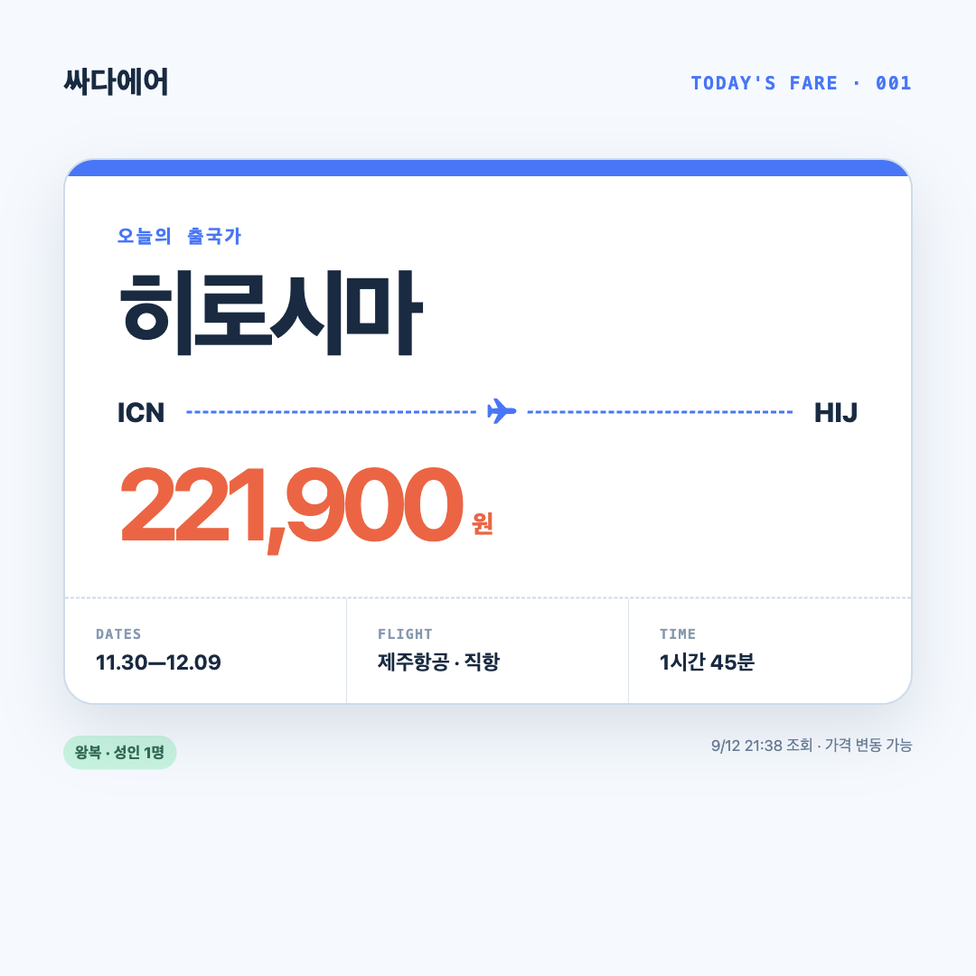
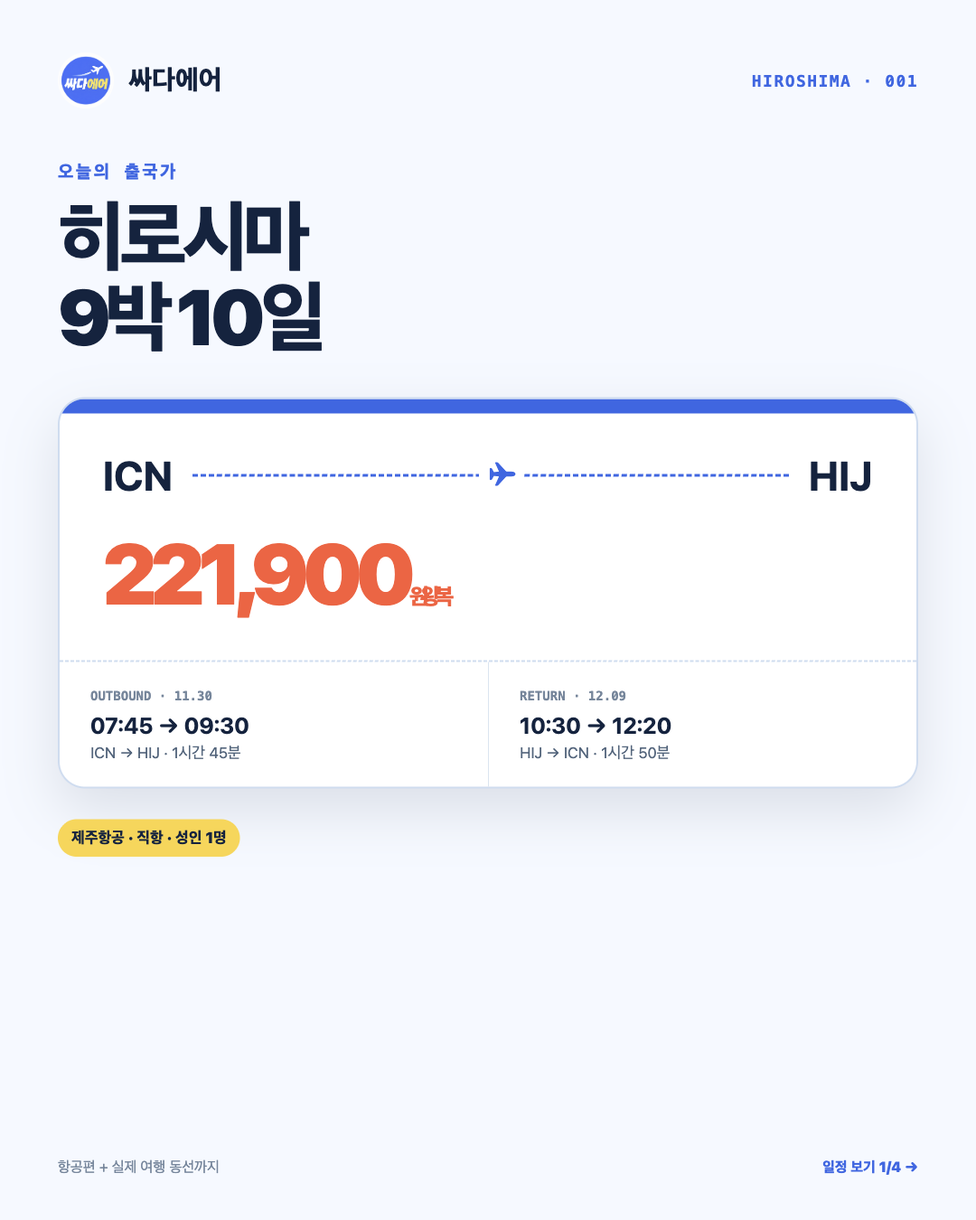
Add flight times and 9-night Hiroshima itinerary carousel

diff --git a/index.html b/index.html
@@ -1,4 +1,1 @@
-<!doctype html>
-<html lang="ko"><head><meta charset="utf-8"><meta name="viewport" content="width=device-width,initial-scale=1"><meta name="description" content="인천 출발 해외 항공권 중 지금 실제로 가기 좋은 특가를 골라 알려드립니다."><meta property="og:title" content="싸다에어 — 오늘의 출국가"><meta property="og:description" content="오늘의 픽: 히로시마 왕복 221,900원"><meta property="og:image" content="https://hydena03.github.io/ssada-air/assets/first-post.png"><title>싸다에어 — 오늘의 출국가</title>
-<style>:root{--cloud:#f4faff;--navy:#102a43;--blue:#1677ff;--coral:#ff5a36;--mint:#bdf4de;--white:#fff;--line:#c9dbea}*{box-sizing:border-box}html{scroll-behavior:smooth}body{margin:0;background:var(--cloud);color:var(--navy);font-family:-apple-system,BlinkMacSystemFont,"Apple SD Gothic Neo","Noto Sans KR",sans-serif}a{color:inherit}.wrap{width:min(960px,calc(100% - 32px));margin:auto}.top{display:flex;align-items:center;justify-content:space-between;padding:22px 0}.brand{display:flex;align-items:center;gap:10px;font-weight:900;letter-spacing:-.04em}.mark{display:block;width:42px;height:42px;border-radius:50%;overflow:hidden}.mark img{display:block;width:100%;height:100%;object-fit:cover}.stamp{font:700 12px ui-monospace,SFMono-Regular,Menlo,monospace;letter-spacing:.08em;color:#486581}.hero{padding:56px 0 88px}.eyebrow{font:800 13px ui-monospace,SFMono-Regular,Menlo,monospace;letter-spacing:.1em;color:var(--blue);text-transform:uppercase}.hero h1{max-width:760px;margin:14px 0 18px;font-size:clamp(44px,8vw,88px);line-height:.94;letter-spacing:-.075em}.hero p{max-width:600px;margin:0;font-size:clamp(17px,2vw,21px);line-height:1.65;color:#486581}.ticket{position:relative;display:grid;grid-template-columns:1fr 230px;margin-top:44px;background:var(--white);border:1px solid var(--line);border-radius:24px;overflow:hidden;box-shadow:0 24px 70px rgba(16,42,67,.12)}.ticket:before,.ticket:after{content:"";position:absolute;left:calc(100% - 242px);width:24px;height:24px;border-radius:50%;background:var(--cloud);z-index:2}.ticket:before{top:-13px}.ticket:after{bottom:-13px}.main{padding:34px 38px}.route{display:flex;align-items:center;gap:18px}.airport strong{display:block;font-size:40px;letter-spacing:-.05em}.airport span{font-size:13px;color:#627d98}.flightline{position:relative;flex:1;border-top:2px dashed var(--blue)}.flightline:after{content:"✈";position:absolute;right:42%;top:-15px;background:white;padding:0 6px;color:var(--blue);font-size:20px}.dates{display:grid;grid-template-columns:repeat(3,1fr);gap:12px;margin-top:32px}.datum{border-top:1px solid var(--line);padding-top:12px}.datum small{display:block;color:#829ab1;font:700 11px ui-monospace,SFMono-Regular,Menlo,monospace;letter-spacing:.08em}.datum b{display:block;margin-top:7px;font-size:15px}.price{display:flex;flex-direction:column;justify-content:space-between;padding:34px 28px;border-left:2px dashed var(--line);background:#fbfdff}.price small{font:800 11px ui-monospace,SFMono-Regular,Menlo,monospace;letter-spacing:.08em}.price strong{display:block;color:var(--coral);font-size:38px;line-height:1;letter-spacing:-.06em}.price span{font-size:13px;color:#627d98}.cta{display:inline-flex;justify-content:center;align-items:center;margin-top:20px;padding:14px 18px;border-radius:999px;background:var(--navy);color:white;text-decoration:none;font-weight:800;font-size:14px}.cta:hover{background:var(--blue)}.cta:focus-visible{outline:4px solid var(--mint);outline-offset:3px}.note{display:grid;grid-template-columns:1fr 1fr;gap:24px;padding:32px 0 68px;border-top:1px solid var(--line)}.note h2{margin:0;font-size:18px}.note p{margin:8px 0 0;color:#627d98;line-height:1.7;font-size:14px}.footer{padding:24px 0 40px;color:#829ab1;font-size:12px}@media(max-width:680px){.hero{padding-top:32px}.ticket{grid-template-columns:1fr}.ticket:before,.ticket:after{display:none}.main{padding:26px 22px}.price{border-left:0;border-top:2px dashed var(--line);gap:18px}.dates{grid-template-columns:1fr}.note{grid-template-columns:1fr}.airport strong{font-size:32px}}@media(prefers-reduced-motion:reduce){html{scroll-behavior:auto}}</style></head>
-<body><header class="wrap top"><div class="brand"><span class="mark"><img src="assets/profile.png" alt=""></span><span>싸다에어</span></div><span class="stamp">FARE CHECK · 260912</span></header><main class="wrap hero"><div class="eyebrow">오늘의 출국가 · #001</div><h1>가격만 싸면<br>추천하지 않습니다.</h1><p>인천 출발 해외 항공권 중 일정, 이동 시간, 계절까지 살펴 지금 실제로 가기 좋은 한 곳을 고릅니다.</p><section class="ticket" aria-label="오늘의 히로시마 항공권"><div class="main"><div class="route"><div class="airport"><strong>ICN</strong><span>인천</span></div><div class="flightline" aria-hidden="true"></div><div class="airport"><strong>HIJ</strong><span>히로시마</span></div></div><div class="dates"><div class="datum"><small>DATES</small><b>11.30 → 12.09</b></div><div class="datum"><small>FLIGHT</small><b>제주항공 · 직항</b></div><div class="datum"><small>DURATION</small><b>1시간 45분</b></div></div></div><div class="price"><div><small>ROUND TRIP</small><strong>₩221,900</strong><span>성인 1명 · 왕복 총액</span></div><a class="cta" href="https://www.google.com/travel/flights?q=round%20trip%20flights%20from%20ICN%20to%20HIJ%20from%20November%2030%2C%202026%20to%20December%209%2C%202026" target="_blank" rel="noopener">현재 가격 다시 보기 ↗</a></div></section></main><section class="wrap note"><div><h2>왜 히로시마인가요?</h2><p>직항 1시간 45분, 9박 일정이라 미야지마와 오노미치까지 여유 있게 묶기 좋습니다. 조회 당시 평소보다 약 88,900원 낮았습니다.</p></div><div><h2>가격 안내</h2><p>2026-09-12 21:38 KST Google 항공편 조회 기준입니다. 결제 시 가격이 바뀌거나 수하물 등 선택 요금이 추가될 수 있습니다.</p></div></section><footer class="wrap footer">© 2026 ssada.air · Instagram / Threads @ssada.air</footer></body></html>
+<!doctype html><html lang="ko"><head><meta charset="utf-8"><meta name="viewport" content="width=device-width,initial-scale=1"><meta name="description" content="인천 출발 히로시마 최저가 항공편과 9박 10일 실제 여행 동선"><meta property="og:title" content="싸다에어 — 히로시마 9박 10일"><meta property="og:description" content="제주항공 직항 왕복 221,900원 · 항공시간과 날짜별 일정"><meta property="og:image" content="https://hydena03.github.io/ssada-air/assets/first-post.png"><title>싸다에어 — 히로시마 9박 10일</title><style>:root{--blue:#1467e8;--yellow:#ffd43b;--ink:#0d2340;--muted:#587089;--bg:#f5f9ff;--line:#cbdcf1}*{box-sizing:border-box}body{margin:0;background:var(--bg);color:var(--ink);font-family:-apple-system,BlinkMacSystemFont,"Apple SD Gothic Neo",sans-serif}.wrap{width:min(980px,calc(100% - 32px));margin:auto}.top{display:flex;align-items:center;justify-content:space-between;padding:20px 0}.brand{display:flex;align-items:center;gap:12px;font-weight:900}.brand img{width:48px;height:48px;border-radius:50%}.stamp{font:800 12px ui-monospace,monospace;color:var(--blue)}.hero{padding:55px 0}.eyebrow{color:var(--blue);font:900 13px ui-monospace,monospace;letter-spacing:.1em}.hero h1{margin:14px 0 18px;font-size:clamp(46px,8vw,88px);line-height:.96;letter-spacing:-.07em}.hero p{max-width:650px;color:var(--muted);font-size:20px;line-height:1.6}.ticket{margin-top:38px;background:#fff;border:1px solid var(--line);border-radius:26px;overflow:hidden;box-shadow:0 24px 60px rgba(13,35,64,.1)}.route{display:flex;align-items:center;gap:22px;padding:34px}.route strong{font-size:43px}.line{flex:1;border-top:3px dashed var(--blue);text-align:center;color:var(--blue)}.price{padding:0 34px 32px;color:#ff5a36;font-size:48px;font-weight:950}.flights{display:grid;grid-template-columns:1fr 1fr;border-top:2px dashed var(--line)}.flight{padding:25px 34px}.flight+ .flight{border-left:1px solid var(--line)}.flight small{display:block;color:var(--muted);font:800 12px ui-monospace,monospace}.flight b{display:block;margin:8px 0;font-size:24px}.cta{display:inline-block;margin-top:24px;padding:15px 20px;background:var(--ink);color:white;border-radius:999px;text-decoration:none;font-weight:900}.cta:focus-visible{outline:4px solid var(--yellow);outline-offset:3px}.schedule{padding:40px 0 70px}.schedule h2{font-size:35px;letter-spacing:-.04em}.days{display:grid;grid-template-columns:1fr 1fr;gap:14px}.day{padding:22px;background:#fff;border:1px solid var(--line);border-radius:18px}.day time{font:900 12px ui-monospace,monospace;color:var(--blue)}.day h3{margin:8px 0;font-size:20px}.day p{margin:0;color:var(--muted);line-height:1.55;font-size:14px}.note{color:var(--muted);font-size:12px;padding:20px 0 40px}@media(max-width:650px){.hero{padding-top:30px}.flights,.days{grid-template-columns:1fr}.flight+.flight{border-left:0;border-top:1px solid var(--line)}}@media(prefers-reduced-motion:reduce){*{scroll-behavior:auto}}</style></head><body><header class="wrap top"><div class="brand"><img src="assets/profile.png" alt=""><span>싸다에어</span></div><span class="stamp">FARE + ROUTE · 001</span></header><main><section class="wrap hero"><div class="eyebrow">오늘의 출국가</div><h1>히로시마<br>9박 10일</h1><p>최저가만 보여주지 않습니다. 실제 비행시간과 날짜별 여행 동선까지 한 번에 확인하세요.</p><div class="ticket"><div class="route"><strong>ICN</strong><div class="line">✈</div><strong>HIJ</strong></div><div class="price">₩221,900 <small>왕복 · 제주항공 직항</small></div><div class="flights"><div class="flight"><small>11.30 OUTBOUND</small><b>07:45 → 09:30</b><span>인천 → 히로시마 · 1시간 45분</span></div><div class="flight"><small>12.09 RETURN</small><b>10:30 → 12:20</b><span>히로시마 → 인천 · 1시간 50분</span></div></div></div><a class="cta" href="https://www.google.com/travel/flights?q=round%20trip%20flights%20from%20ICN%20to%20HIJ%20from%20November%2030%2C%202026%20to%20December%209%2C%202026" target="_blank" rel="noopener">현재 항공편 다시 보기 ↗</a></section><section class="wrap schedule"><h2>11월 30일—12월 9일 추천 동선</h2><div class="days"><article class="day"><time>DAY 1 · 11.30</time><h3>히로시마 핵심</h3><p>09:30 도착 · 오코노미야키 · 평화기념공원 · 원폭돔 · 오리즈루 타워</p></article><article class="day"><time>DAY 2 · 12.01</time><h3>미야지마</h3><p>이쓰쿠시마 신사 · 다이쇼인 · 미센산 · 석양</p></article><article class="day"><time>DAY 3 · 12.02</time><h3>이와쿠니</h3><p>긴타이교 · 이와쿠니성 · 히로시마 혼도리</p></article><article class="day"><time>DAY 4 · 12.03</time><h3>오노미치</h3><p>센코지 · 사찰 산책길 · 상점가 · 오노미치 1박</p></article><article class="day"><time>DAY 5 · 12.04</time><h3>시마나미 카이도</h3><p>자전거 · 이쿠치지마 · 세토다 · 고산지</p></article><article class="day"><time>DAY 6 · 12.05</time><h3>오카야마·구라시키</h3><p>고라쿠엔 · 오카야마성 · 구라시키 미관지구</p></article><article class="day"><time>DAY 7 · 12.06</time><h3>다케하라·오쿠노시마</h3><p>보존지구 · 다다노우미항 · 토끼섬</p></article><article class="day"><time>DAY 8 · 12.07</time><h3>사이조</h3><p>사케 양조장 거리 · 히로시마성 · 나가레카와</p></article><article class="day"><time>DAY 9 · 12.08</time><h3>여유일</h3><p>슛케이엔 · 쇼핑 · 날씨 변수 보충 · 짐 정리</p></article><article class="day"><time>DAY 10 · 12.09</time><h3>귀국</h3><p>07:20 공항버스 · 10:30 HIJ 출발 · 12:20 ICN 도착</p></article></div></section></main><footer class="wrap note">항공료와 교통편은 변동될 수 있으니 출발 전 다시 확인하세요. © 2026 ssada.air</footer></body></html>

diff --git a/design/first-post.html b/design/first-post.html
@@ -1,1 +1,1 @@
-<!doctype html><meta charset="utf-8"><style>*{box-sizing:border-box}html,body{margin:0;width:1080px;height:1080px;overflow:hidden}body{background:#f4faff;color:#102a43;font-family:-apple-system,BlinkMacSystemFont,"Apple SD Gothic Neo",sans-serif;padding:70px}.top{display:flex;justify-content:space-between;align-items:center}.brand{font-weight:900;font-size:34px}.seq{font:800 20px ui-monospace,SFMono-Regular,Menlo,monospace;color:#1677ff;letter-spacing:.08em}.ticket{position:relative;margin-top:62px;background:white;border:2px solid #c9dbea;border-radius:34px;box-shadow:0 28px 70px rgba(16,42,67,.13);overflow:hidden}.ticket:before{content:"";display:block;height:18px;background:#1677ff}.main{padding:54px 58px}.kicker{font:800 21px ui-monospace,SFMono-Regular,Menlo,monospace;color:#1677ff;letter-spacing:.12em}.city{margin-top:18px;font-size:105px;font-weight:900;letter-spacing:-.075em;line-height:1}.route{display:flex;align-items:center;margin:40px 0 32px;font-size:30px;font-weight:800}.line{position:relative;flex:1;margin:0 24px;border-top:3px dashed #1677ff}.line:after{content:"✈";position:absolute;left:48%;top:-24px;background:white;padding:0 8px;color:#1677ff;font-size:34px}.price{display:flex;align-items:end;gap:13px;color:#ff5a36}.price strong{font-size:112px;line-height:.9;letter-spacing:-.07em}.price span{font-size:28px;font-weight:800;padding-bottom:8px}.details{display:grid;grid-template-columns:repeat(3,1fr);border-top:2px dashed #c9dbea}.details div{padding:30px 34px;border-right:1px solid #d9e2ec}.details div:last-child{border:0}.details small{display:block;color:#829ab1;font:800 15px ui-monospace,SFMono-Regular,Menlo,monospace;letter-spacing:.08em}.details b{display:block;margin-top:9px;font-size:23px}.foot{display:flex;justify-content:space-between;margin-top:34px;color:#627d98;font-size:17px}.badge{background:#bdf4de;color:#146c55;padding:8px 13px;border-radius:999px;font-weight:800}</style><div class="top"><div class="brand">싸다에어</div><div class="seq">TODAY'S FARE · 001</div></div><section class="ticket"><div class="main"><div class="kicker">오늘의 출국가</div><div class="city">히로시마</div><div class="route"><span>ICN</span><div class="line"></div><span>HIJ</span></div><div class="price"><strong>221,900</strong><span>원</span></div></div><div class="details"><div><small>DATES</small><b>11.30—12.09</b></div><div><small>FLIGHT</small><b>제주항공 · 직항</b></div><div><small>TIME</small><b>1시간 45분</b></div></div></section><div class="foot"><span class="badge">왕복 · 성인 1명</span><span>9/12 21:38 조회 · 가격 변동 가능</span></div>
+<!doctype html><meta charset="utf-8"><style>*{box-sizing:border-box}html,body{margin:0;width:1080px;height:1350px;overflow:hidden}body{background:#f5f9ff;color:#0d2340;font-family:-apple-system,BlinkMacSystemFont,"Apple SD Gothic Neo",sans-serif;padding:58px 64px}.head{display:flex;align-items:center;justify-content:space-between}.brand{display:flex;align-items:center;gap:16px;font-weight:900;font-size:30px}.logo{width:62px;height:62px;border-radius:50%;object-fit:cover}.seq{font:800 18px ui-monospace,SFMono-Regular,Menlo,monospace;color:#1467e8;letter-spacing:.08em}.kicker{margin-top:58px;color:#1467e8;font:900 20px ui-monospace,SFMono-Regular,Menlo,monospace;letter-spacing:.12em}.title{margin:14px 0 0;font-weight:950;font-size:86px;line-height:1.03;letter-spacing:-.07em}.ticket{margin-top:46px;background:white;border:2px solid #cbdcf1;border-radius:30px;overflow:hidden;box-shadow:0 25px 60px rgba(13,35,64,.12)}.bar{height:16px;background:#1467e8}.fare{padding:42px 48px}.route{display:flex;align-items:center;gap:22px}.route b{font-size:45px}.line{position:relative;flex:1;border-top:3px dashed #1467e8}.line:after{content:"✈";position:absolute;left:48%;top:-23px;background:#fff;padding:0 9px;color:#1467e8;font-size:32px}.price{margin-top:25px;color:#ff5a36;font-size:94px;font-weight:950;letter-spacing:-.07em}.price small{font-size:25px}.flights{display:grid;grid-template-columns:1fr 1fr;border-top:2px dashed #cbdcf1}.flight{padding:27px 34px}.flight+ .flight{border-left:1px solid #d8e4f1}.flight small{color:#71869d;font:800 14px ui-monospace,SFMono-Regular,Menlo,monospace}.flight strong{display:block;margin:9px 0 5px;font-size:25px}.flight span{font-size:17px;color:#4c647d}.pill{display:inline-block;margin-top:34px;padding:10px 15px;border-radius:99px;background:#ffd43b;font-weight:900;font-size:17px}.days{display:grid;gap:16px;margin-top:38px}.day{display:grid;grid-template-columns:118px 1fr;align-items:start;background:#fff;border:1px solid #cbdcf1;border-radius:21px;padding:25px 28px}.date{color:#1467e8;font:900 17px ui-monospace,SFMono-Regular,Menlo,monospace}.date b{display:block;color:#0d2340;font-size:27px;margin-top:5px}.plan strong{display:block;font-size:25px;margin-bottom:8px}.plan span{font-size:18px;line-height:1.55;color:#4c647d}.foot{position:absolute;left:64px;right:64px;bottom:48px;display:flex;justify-content:space-between;align-items:center;color:#71869d;font-size:16px}.next{font-weight:900;color:#1467e8}.tip{margin-top:27px;padding:18px 22px;background:#e6f7ef;border-radius:16px;color:#176349;font-size:17px;line-height:1.45}</style><div class="head"><div class="brand"><img class="logo" src="../assets/profile.png" alt=""><span>싸다에어</span></div><div class="seq">HIROSHIMA · 001</div></div><div class="kicker">오늘의 출국가</div><h1 class="title">히로시마<br>9박 10일</h1><section class="ticket"><div class="bar"></div><div class="fare"><div class="route"><b>ICN</b><div class="line"></div><b>HIJ</b></div><div class="price">221,900<small>원 · 왕복</small></div></div><div class="flights"><div class="flight"><small>OUTBOUND · 11.30</small><strong>07:45 → 09:30</strong><span>ICN → HIJ · 1시간 45분</span></div><div class="flight"><small>RETURN · 12.09</small><strong>10:30 → 12:20</strong><span>HIJ → ICN · 1시간 50분</span></div></div></section><span class="pill">제주항공 · 직항 · 성인 1명</span><div class="foot"><span>항공편 + 실제 여행 동선까지</span><span class="next">일정 보기 1/4 →</span></div>

diff --git a/design/itinerary-3.html b/design/itinerary-3.html
@@ -1,0 +1,1 @@
+<!doctype html><meta charset="utf-8"><style>*{box-sizing:border-box}html,body{margin:0;width:1080px;height:1350px;overflow:hidden}body{background:#f5f9ff;color:#0d2340;font-family:-apple-system,BlinkMacSystemFont,"Apple SD Gothic Neo",sans-serif;padding:58px 64px}.head{display:flex;align-items:center;justify-content:space-between}.brand{display:flex;align-items:center;gap:16px;font-weight:900;font-size:30px}.logo{width:62px;height:62px;border-radius:50%;object-fit:cover}.seq{font:800 18px ui-monospace,SFMono-Regular,Menlo,monospace;color:#1467e8;letter-spacing:.08em}.kicker{margin-top:58px;color:#1467e8;font:900 20px ui-monospace,SFMono-Regular,Menlo,monospace;letter-spacing:.12em}.title{margin:14px 0 0;font-weight:950;font-size:86px;line-height:1.03;letter-spacing:-.07em}.ticket{margin-top:46px;background:white;border:2px solid #cbdcf1;border-radius:30px;overflow:hidden;box-shadow:0 25px 60px rgba(13,35,64,.12)}.bar{height:16px;background:#1467e8}.fare{padding:42px 48px}.route{display:flex;align-items:center;gap:22px}.route b{font-size:45px}.line{position:relative;flex:1;border-top:3px dashed #1467e8}.line:after{content:"✈";position:absolute;left:48%;top:-23px;background:#fff;padding:0 9px;color:#1467e8;font-size:32px}.price{margin-top:25px;color:#ff5a36;font-size:94px;font-weight:950;letter-spacing:-.07em}.price small{font-size:25px}.flights{display:grid;grid-template-columns:1fr 1fr;border-top:2px dashed #cbdcf1}.flight{padding:27px 34px}.flight+ .flight{border-left:1px solid #d8e4f1}.flight small{color:#71869d;font:800 14px ui-monospace,SFMono-Regular,Menlo,monospace}.flight strong{display:block;margin:9px 0 5px;font-size:25px}.flight span{font-size:17px;color:#4c647d}.pill{display:inline-block;margin-top:34px;padding:10px 15px;border-radius:99px;background:#ffd43b;font-weight:900;font-size:17px}.days{display:grid;gap:16px;margin-top:38px}.day{display:grid;grid-template-columns:118px 1fr;align-items:start;background:#fff;border:1px solid #cbdcf1;border-radius:21px;padding:25px 28px}.date{color:#1467e8;font:900 17px ui-monospace,SFMono-Regular,Menlo,monospace}.date b{display:block;color:#0d2340;font-size:27px;margin-top:5px}.plan strong{display:block;font-size:25px;margin-bottom:8px}.plan span{font-size:18px;line-height:1.55;color:#4c647d}.foot{position:absolute;left:64px;right:64px;bottom:48px;display:flex;justify-content:space-between;align-items:center;color:#71869d;font-size:16px}.next{font-weight:900;color:#1467e8}.tip{margin-top:27px;padding:18px 22px;background:#e6f7ef;border-radius:16px;color:#176349;font-size:17px;line-height:1.45}</style><div class="head"><div class="brand"><img class="logo" src="../assets/profile.png" alt=""><span>싸다에어</span></div><div class="seq">HIROSHIMA · 001</div></div><div class="kicker">DAY 7—10 · 섬 & 출국</div><h1 class="title">마지막까지<br>빈틈없이</h1><div class="days"><div class="day"><div class="date">12.06<b>DAY 7</b></div><div class="plan"><strong>다케하라 & 오쿠노시마</strong><span>보존지구 산책 → 다다노우미항 → 토끼섬 → 히로시마 복귀</span></div></div><div class="day"><div class="date">12.07<b>DAY 8</b></div><div class="plan"><strong>사이조 양조장 거리</strong><span>사케 양조장 산책 → 히로시마성 → 나가레카와 저녁</span></div></div><div class="day"><div class="date">12.08<b>DAY 9</b></div><div class="plan"><strong>여유일</strong><span>슛케이엔 → 쇼핑·카페 → 날씨 변수로 놓친 일정 보충 → 짐 정리</span></div></div><div class="day"><div class="date">12.09<b>DAY 10</b></div><div class="plan"><strong>귀국</strong><span>07:20 히로시마역 공항버스 → 08:30 공항 → 10:30 출발 → 12:20 인천</span></div></div></div><div class="foot"><span>교통편 운행시간은 출발 전 재확인</span><span class="next">저장해두기 · 4/4</span></div>

diff --git a/design/itinerary-2.html b/design/itinerary-2.html
@@ -1,0 +1,1 @@
+<!doctype html><meta charset="utf-8"><style>*{box-sizing:border-box}html,body{margin:0;width:1080px;height:1350px;overflow:hidden}body{background:#f5f9ff;color:#0d2340;font-family:-apple-system,BlinkMacSystemFont,"Apple SD Gothic Neo",sans-serif;padding:58px 64px}.head{display:flex;align-items:center;justify-content:space-between}.brand{display:flex;align-items:center;gap:16px;font-weight:900;font-size:30px}.logo{width:62px;height:62px;border-radius:50%;object-fit:cover}.seq{font:800 18px ui-monospace,SFMono-Regular,Menlo,monospace;color:#1467e8;letter-spacing:.08em}.kicker{margin-top:58px;color:#1467e8;font:900 20px ui-monospace,SFMono-Regular,Menlo,monospace;letter-spacing:.12em}.title{margin:14px 0 0;font-weight:950;font-size:86px;line-height:1.03;letter-spacing:-.07em}.ticket{margin-top:46px;background:white;border:2px solid #cbdcf1;border-radius:30px;overflow:hidden;box-shadow:0 25px 60px rgba(13,35,64,.12)}.bar{height:16px;background:#1467e8}.fare{padding:42px 48px}.route{display:flex;align-items:center;gap:22px}.route b{font-size:45px}.line{position:relative;flex:1;border-top:3px dashed #1467e8}.line:after{content:"✈";position:absolute;left:48%;top:-23px;background:#fff;padding:0 9px;color:#1467e8;font-size:32px}.price{margin-top:25px;color:#ff5a36;font-size:94px;font-weight:950;letter-spacing:-.07em}.price small{font-size:25px}.flights{display:grid;grid-template-columns:1fr 1fr;border-top:2px dashed #cbdcf1}.flight{padding:27px 34px}.flight+ .flight{border-left:1px solid #d8e4f1}.flight small{color:#71869d;font:800 14px ui-monospace,SFMono-Regular,Menlo,monospace}.flight strong{display:block;margin:9px 0 5px;font-size:25px}.flight span{font-size:17px;color:#4c647d}.pill{display:inline-block;margin-top:34px;padding:10px 15px;border-radius:99px;background:#ffd43b;font-weight:900;font-size:17px}.days{display:grid;gap:16px;margin-top:38px}.day{display:grid;grid-template-columns:118px 1fr;align-items:start;background:#fff;border:1px solid #cbdcf1;border-radius:21px;padding:25px 28px}.date{color:#1467e8;font:900 17px ui-monospace,SFMono-Regular,Menlo,monospace}.date b{display:block;color:#0d2340;font-size:27px;margin-top:5px}.plan strong{display:block;font-size:25px;margin-bottom:8px}.plan span{font-size:18px;line-height:1.55;color:#4c647d}.foot{position:absolute;left:64px;right:64px;bottom:48px;display:flex;justify-content:space-between;align-items:center;color:#71869d;font-size:16px}.next{font-weight:900;color:#1467e8}.tip{margin-top:27px;padding:18px 22px;background:#e6f7ef;border-radius:16px;color:#176349;font-size:17px;line-height:1.45}</style><div class="head"><div class="brand"><img class="logo" src="../assets/profile.png" alt=""><span>싸다에어</span></div><div class="seq">HIROSHIMA · 001</div></div><div class="kicker">DAY 4—6 · 세토우치 동선</div><h1 class="title">골목, 자전거,<br>운하 마을</h1><div class="days"><div class="day"><div class="date">12.03<b>DAY 4</b></div><div class="plan"><strong>오노미치</strong><span>히로시마 → 오노미치 이동 → 센코지 로프웨이 → 사찰 산책길 → 상점가</span></div></div><div class="day"><div class="date">12.04<b>DAY 5</b></div><div class="plan"><strong>시마나미 카이도</strong><span>초급 코스 자전거 → 이쿠치지마·세토다 → 고산지 → 페리로 오노미치 복귀</span></div></div><div class="day"><div class="date">12.05<b>DAY 6</b></div><div class="plan"><strong>오카야마 & 구라시키</strong><span>고라쿠엔 → 오카야마성 → 구라시키 미관지구 → 저녁 히로시마 복귀</span></div></div></div><div class="tip">숙박: 오노미치 2박 → 6일차 히로시마 복귀</div><div class="foot"><span>큰 짐은 히로시마에 보관하면 편함</span><span class="next">3/4 →</span></div>

diff --git a/design/itinerary-1.html b/design/itinerary-1.html
@@ -1,0 +1,1 @@
+<!doctype html><meta charset="utf-8"><style>*{box-sizing:border-box}html,body{margin:0;width:1080px;height:1350px;overflow:hidden}body{background:#f5f9ff;color:#0d2340;font-family:-apple-system,BlinkMacSystemFont,"Apple SD Gothic Neo",sans-serif;padding:58px 64px}.head{display:flex;align-items:center;justify-content:space-between}.brand{display:flex;align-items:center;gap:16px;font-weight:900;font-size:30px}.logo{width:62px;height:62px;border-radius:50%;object-fit:cover}.seq{font:800 18px ui-monospace,SFMono-Regular,Menlo,monospace;color:#1467e8;letter-spacing:.08em}.kicker{margin-top:58px;color:#1467e8;font:900 20px ui-monospace,SFMono-Regular,Menlo,monospace;letter-spacing:.12em}.title{margin:14px 0 0;font-weight:950;font-size:86px;line-height:1.03;letter-spacing:-.07em}.ticket{margin-top:46px;background:white;border:2px solid #cbdcf1;border-radius:30px;overflow:hidden;box-shadow:0 25px 60px rgba(13,35,64,.12)}.bar{height:16px;background:#1467e8}.fare{padding:42px 48px}.route{display:flex;align-items:center;gap:22px}.route b{font-size:45px}.line{position:relative;flex:1;border-top:3px dashed #1467e8}.line:after{content:"✈";position:absolute;left:48%;top:-23px;background:#fff;padding:0 9px;color:#1467e8;font-size:32px}.price{margin-top:25px;color:#ff5a36;font-size:94px;font-weight:950;letter-spacing:-.07em}.price small{font-size:25px}.flights{display:grid;grid-template-columns:1fr 1fr;border-top:2px dashed #cbdcf1}.flight{padding:27px 34px}.flight+ .flight{border-left:1px solid #d8e4f1}.flight small{color:#71869d;font:800 14px ui-monospace,SFMono-Regular,Menlo,monospace}.flight strong{display:block;margin:9px 0 5px;font-size:25px}.flight span{font-size:17px;color:#4c647d}.pill{display:inline-block;margin-top:34px;padding:10px 15px;border-radius:99px;background:#ffd43b;font-weight:900;font-size:17px}.days{display:grid;gap:16px;margin-top:38px}.day{display:grid;grid-template-columns:118px 1fr;align-items:start;background:#fff;border:1px solid #cbdcf1;border-radius:21px;padding:25px 28px}.date{color:#1467e8;font:900 17px ui-monospace,SFMono-Regular,Menlo,monospace}.date b{display:block;color:#0d2340;font-size:27px;margin-top:5px}.plan strong{display:block;font-size:25px;margin-bottom:8px}.plan span{font-size:18px;line-height:1.55;color:#4c647d}.foot{position:absolute;left:64px;right:64px;bottom:48px;display:flex;justify-content:space-between;align-items:center;color:#71869d;font-size:16px}.next{font-weight:900;color:#1467e8}.tip{margin-top:27px;padding:18px 22px;background:#e6f7ef;border-radius:16px;color:#176349;font-size:17px;line-height:1.45}</style><div class="head"><div class="brand"><img class="logo" src="../assets/profile.png" alt=""><span>싸다에어</span></div><div class="seq">HIROSHIMA · 001</div></div><div class="kicker">DAY 1—3 · 히로시마 & 미야지마</div><h1 class="title">도착하자마자<br>여행 시작</h1><div class="days"><div class="day"><div class="date">11.30<b>DAY 1</b></div><div class="plan"><strong>히로시마 핵심</strong><span>09:30 도착 → 공항버스 → 오코노미야키 → 평화기념공원·원폭돔 → 오리즈루 타워</span></div></div><div class="day"><div class="date">12.01<b>DAY 2</b></div><div class="plan"><strong>미야지마 하루</strong><span>이쓰쿠시마 신사 → 다이쇼인 → 미센산 → 석양 → 히로시마 복귀</span></div></div><div class="day"><div class="date">12.02<b>DAY 3</b></div><div class="plan"><strong>이와쿠니 당일치기</strong><span>긴타이교 → 이와쿠니성 → 로프웨이 → 히로시마 혼도리 야경</span></div></div></div><div class="tip">숙박 베이스: 히로시마역 또는 핫초보리 3박</div><div class="foot"><span>이동을 줄이고 첫 3일은 한 숙소</span><span class="next">2/4 →</span></div>
